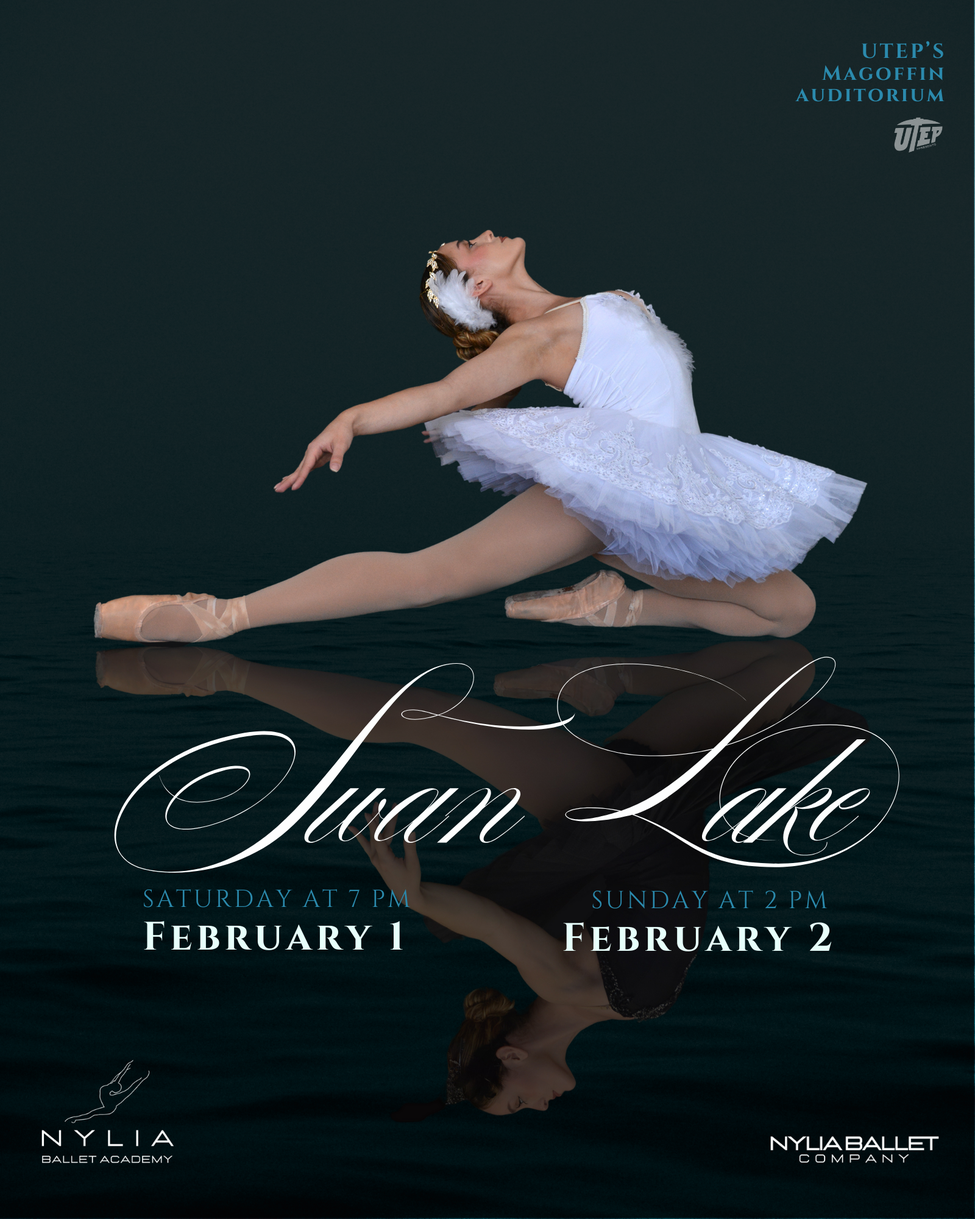
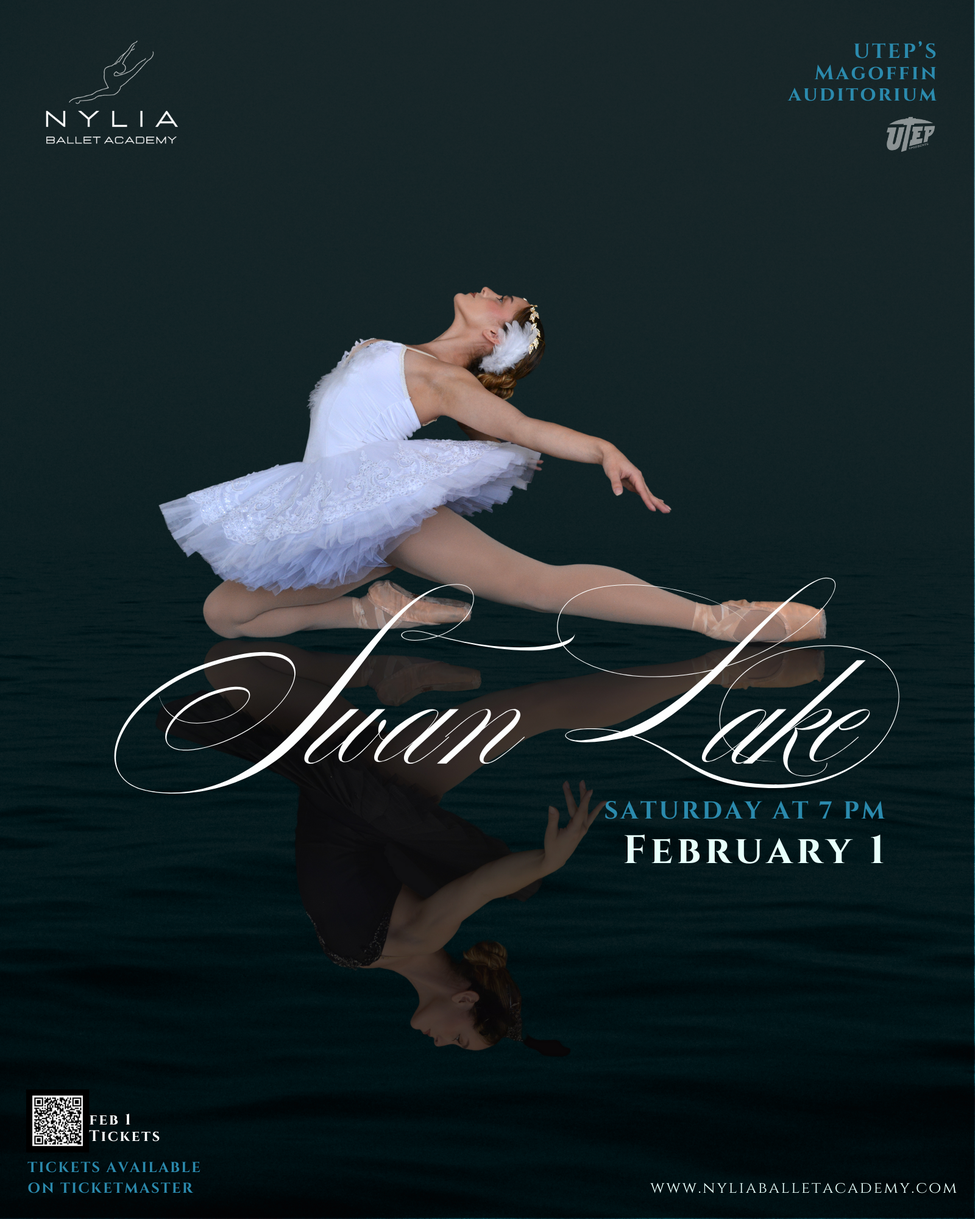
UPDATE SWAN LAKE MENTIONS FOR SHOW 2

diff --git a/src/components/Performances.js b/src/components/Performances.js
@@ -79,24 +79,17 @@ function Performances() {
                 </Card.Text>
               </Card.Body>
               <Card.Footer className="performance-date">
-                <small className="text-muted">FEBRUARY 1 & 2, 2025</small>
+                <small className="text-muted">FEBRUARY 1, 2025</small>
               </Card.Footer>
               <Card.Footer>
                 <a
                   id="description-event-button"
                   href="https://www.ticketmaster.com/swan-lake-el-paso-texas-02-01-2025/event/0C00615EE1493D5F"
                 >
-                  <NyliaButton label={"TICKETS: FEBRUARY 1"}></NyliaButton>
+                  <NyliaButton label={"SWAN LAKE TICKETS"}></NyliaButton>
                 </a>
               </Card.Footer>
-              <Card.Footer>
-                <a
-                  id="description-event-button"
-                  href="https://www.ticketmaster.com/swan-lake-el-paso-texas-02-02-2025/event/0C00615EEEF14284"
-                >
-                  <NyliaButton label={"TICKETS: FEBRUARY 2"}></NyliaButton>
-                </a>
-              </Card.Footer>
+
               <Card.Footer>
                 <a id="performances-button" href={swanLakeWeeklySchedule}>
                   <NyliaButton

diff --git a/src/components/Home.js b/src/components/Home.js
@@ -54,7 +54,7 @@ function Home() {
           <b>SWAN LAKE</b>
         </h1>
         <br></br>
-        <h3>February 1-2, 2025</h3>
+        <h3>February 1, 2025</h3>
         <h3>UTEP's Magoffin Auditorium</h3>
         <br></br>
         <p>
@@ -76,14 +76,7 @@ function Home() {
           id="description-event-button"
           href="https://www.ticketmaster.com/swan-lake-el-paso-texas-02-01-2025/event/0C00615EE1493D5F"
         >
-          <NyliaButton label={"TICKETS: FEBRUARY 1"}></NyliaButton>
-        </a>
-        <br></br>
-        <a
-          id="description-event-button"
-          href="https://www.ticketmaster.com/swan-lake-el-paso-texas-02-02-2025/event/0C00615EEEF14284"
-        >
-          <NyliaButton label={"TICKETS: FEBRUARY 2"}></NyliaButton>
+          <NyliaButton label={"SWAN LAKE TICKETS"}></NyliaButton>
         </a>
         <br></br>
         <br></br>
